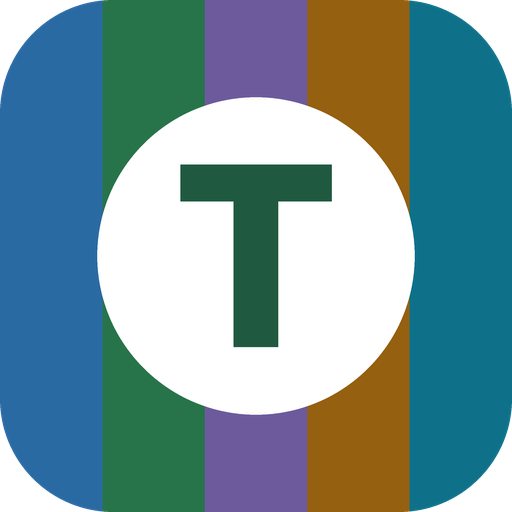
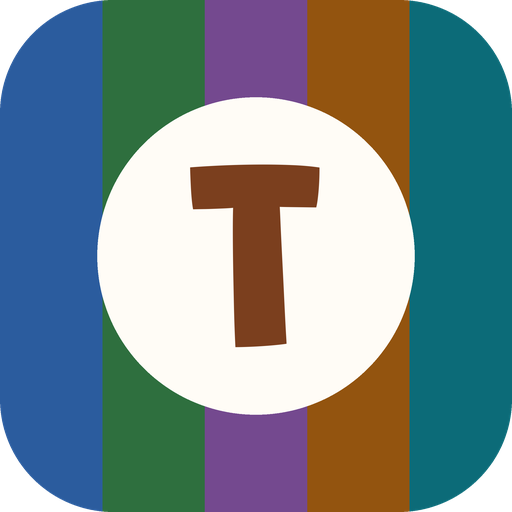
La démonstration s'installe comme une appli
Moteur à jour (447c707) : manifeste, icônes tirées du thème, service
worker (hors connexion pour ce qui a déjà été vu), invitation discrète à
l'installer. 45 PDF, 113 pages, comme avant.

Claude-Session: https://claude.ai/code/session_01Uxi6vTyZY4CiKFDutfBqKC

Changed region(s): [[0.3438, 0.3125, 0.6562, 0.6875]]

diff --git a/site/sw.js b/site/sw.js
@@ -17,7 +17,7 @@
  */
 'use strict';
 
-var VERSION = "7a77527817b8";
+var VERSION = "56c02e0d1460";
 var PRECACHE = [
   "./",
   "index.html",
@@ -44,13 +44,31 @@ var PRECACHE = [
   "charte/polices/andika-latin-700.woff2",
   "charte/polices/andika-latin-ext-400.woff2",
   "charte/polices/andika-latin-ext-700.woff2",
-  "charte/themes/demo/polices/atkinson-next-latin-ext.woff2",
-  "charte/themes/demo/polices/atkinson-next-latin-italic.woff2",
-  "charte/themes/demo/polices/atkinson-next-latin.woff2",
-  "charte/themes/demo/polices/bricolage-grotesque-latin-ext.woff2",
-  "charte/themes/demo/polices/bricolage-grotesque-latin.woff2",
+  "charte/themes/tour-du-monde/motifs/ficelle.svg",
+  "charte/themes/tour-du-monde/motifs/grille.svg",
+  "charte/themes/tour-du-monde/motifs/itineraire.svg",
+  "charte/themes/tour-du-monde/motifs/obliteration.svg",
+  "charte/themes/tour-du-monde/motifs/tampon.svg",
+  "charte/themes/tour-du-monde/polices/atkinson-next-latin-ext.woff2",
+  "charte/themes/tour-du-monde/polices/atkinson-next-latin-italic.woff2",
+  "charte/themes/tour-du-monde/polices/atkinson-next-latin.woff2",
+  "charte/themes/tour-du-monde/polices/courier-prime-latin-400.woff2",
+  "charte/themes/tour-du-monde/polices/courier-prime-latin-700.woff2",
+  "charte/themes/tour-du-monde/polices/courier-prime-latin-ext-400.woff2",
+  "charte/themes/tour-du-monde/polices/courier-prime-latin-ext-700.woff2",
+  "charte/themes/tour-du-monde/polices/grandstander-latin-ext.woff2",
+  "charte/themes/tour-du-monde/polices/grandstander-latin.woff2",
   "content/01-projet-annuel.md",
-  "content/02-programmation-annuelle.md"
+  "content/02-programmation-annuelle.md",
+  "content/03-progressions/01-langage-oral-ecrit.md",
+  "content/03-progressions/02-mathematiques.md",
+  "content/03-progressions/03-activites-physiques.md",
+  "content/03-progressions/04-activites-artistiques.md",
+  "content/03-progressions/05-temps-espace.md",
+  "content/03-progressions/06-monde-vivant-matiere-objets.md",
+  "content/03-progressions/07-evar.md",
+  "content/04-evaluations/00-mode-emploi-et-livret-de-suivi.md",
+  "content/04-evaluations/periode-1-europe.md"
 ];
 
 var PORTEE = self.registration.scope;

diff --git a/site/classe.js b/site/classe.js
@@ -15,7 +15,7 @@ var CLASSE = {
   "depot": "encrine-ai/tour-du-monde",
   "moteur": {
     "depot": "encrine-ai/moteur",
-    "version": "fc4afc3"
+    "version": "447c707"
   },
   "galerie": {
     "depot": "encrine-ai/encrine-ai.github.io"
